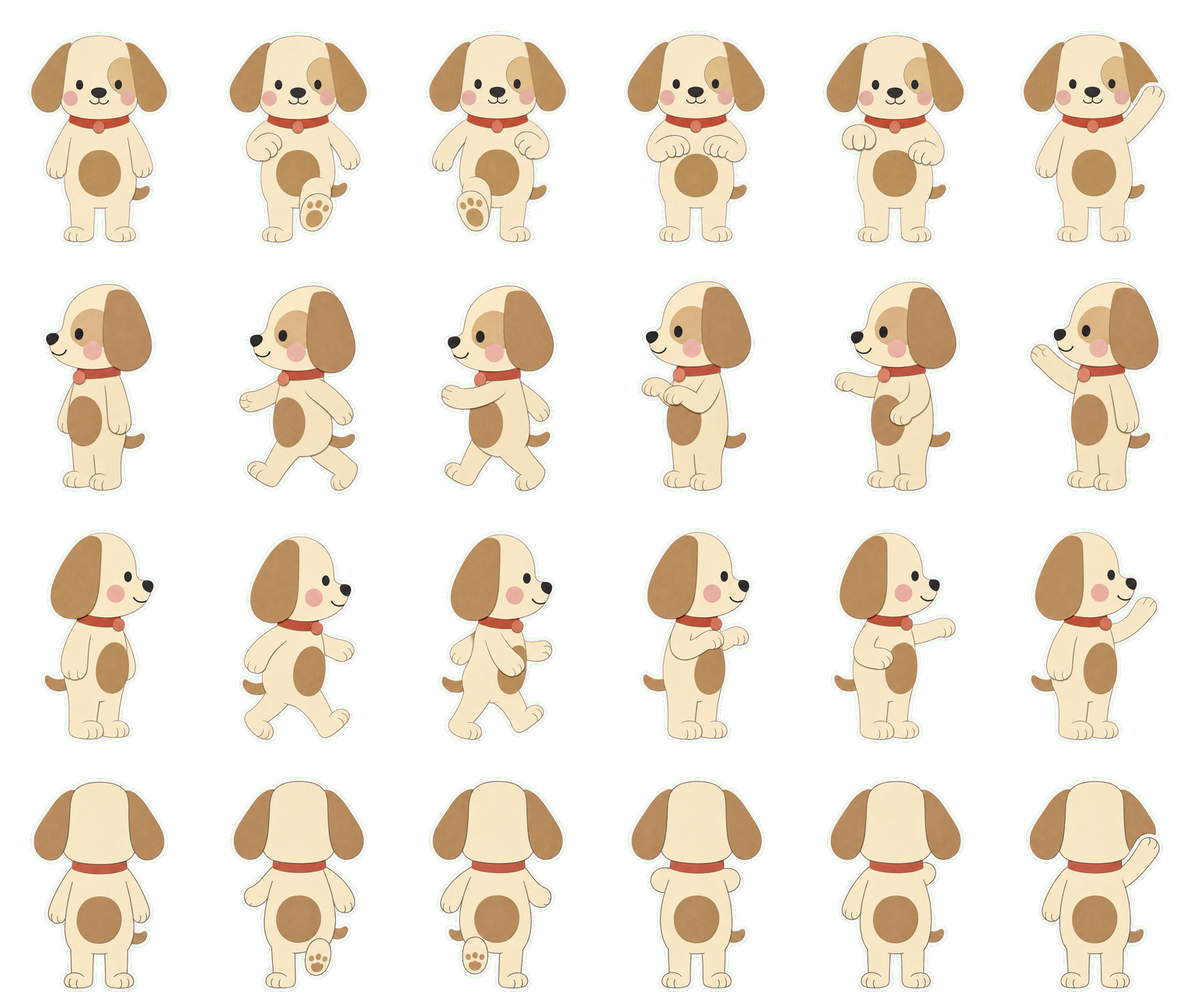
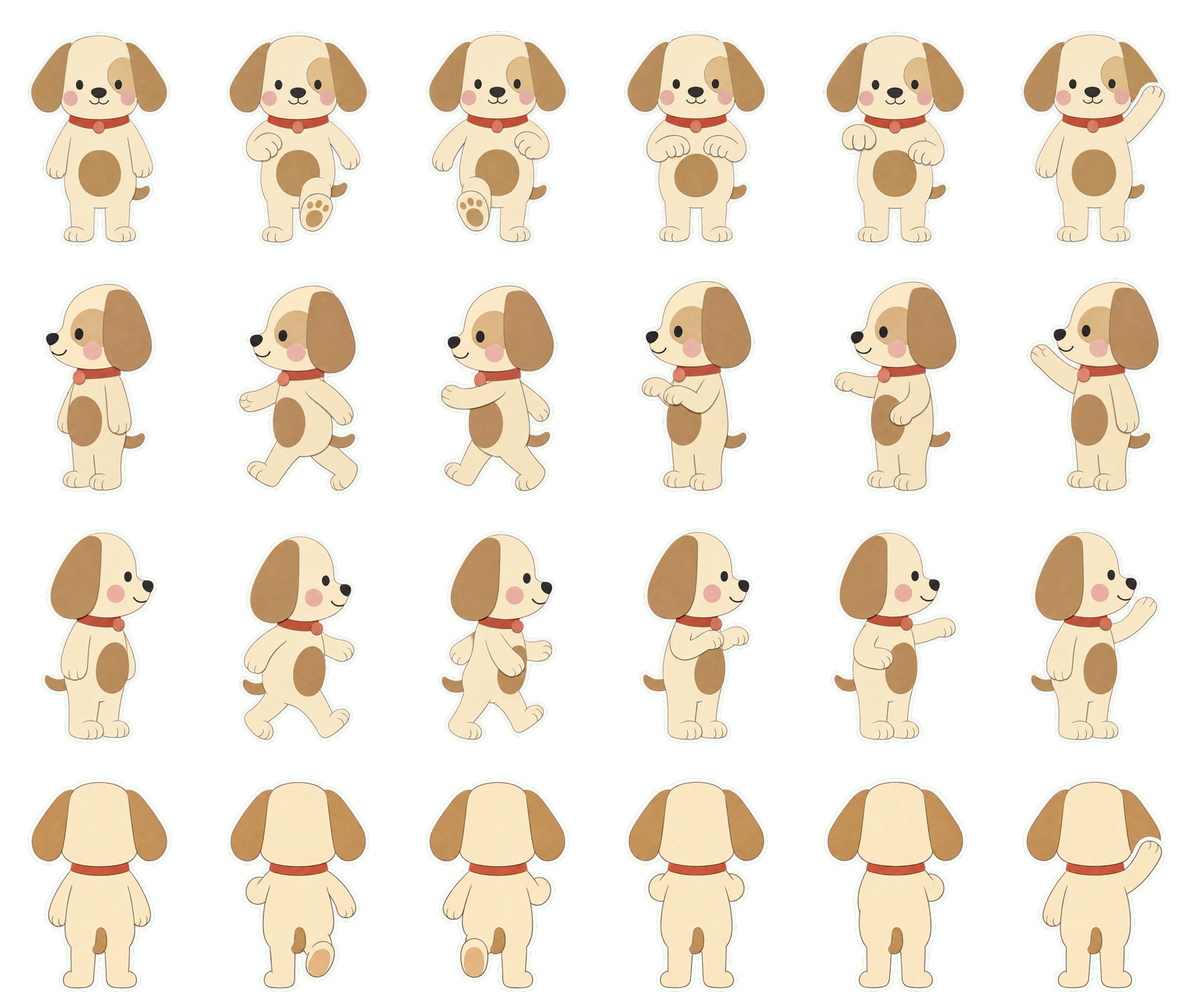
Primepaw: a turnaround settles the puppy's back, and the back strip is redrawn from it
Drawn from the body alone, every back strip invented its own back, the last
one with the tummy patch on it. So the puppy now has a character reference
first: pet/src/dog/turnaround.png, its front, left side, back and right side
in one row, drawn with GPT Image 2.6 Sunburst from the body, with the back
spelled out (plain cream, no patch, the backs of both ears and of the collar,
the tail at the bottom in the middle). The back strip is redrawn with the
turnaround as the first reference and the body as the second, and dog-walk.png
is rebuilt: only the up row changes, every facing still stands 275 px with its
feet on the cell's ground line, and the peeking atlas and the face are
byte-identical.

The character skill records the step: the turnaround is a stage of its own
between the body and the walk strips, prompts.md has its prompt as a template
and the strips' two-reference prompt, the {BACK} slot now says what is absent
as well as what is there, and comfy.md has the two-image GPT graph and what to
judge on the turnaround. pet/README.md carries the puppy's turnaround and back
strip prompts.

diff --git a/mockups/primepaw/pet/README.md b/mockups/primepaw/pet/README.md
@@ -3,15 +3,16 @@
 The pet over the composer, the main agent's face, and the standee that walks the Factory Overseer's
 floor are one character, a paper cut-out puppy: cream paper face and body, kraft brown floppy ears,
 an eye patch and a tummy patch, a red collar with a tag, pink cheeks, pen-ink features, and the white
-die-cut border every Kraft sticker has. Three cuts of it ship here, all drawn with Qwen Image 2.1 on
-Comfy Cloud (the open-weight templates, no partner credits) and sliced by `build.py`.
+die-cut border every Kraft sticker has. Three cuts of it ship here, drawn on Comfy Cloud (Qwen Image 2.1,
+the open-weight template, for the peeking sheets, the avatar and the body; GPT Image 2.6 Sunburst for
+the turnaround and the walk strips) and sliced by `build.py`.
 
 | File | What it is | Where it goes |
 | --- | --- | --- |
 | `dog.png`, `dog.json` | The peeking puppy: an atlas with a row per mood (idle, greet, celebrate, sad, error, ask) and 8 frames across, drawn at 2x; the JSON holds the frame size and the CSS numbers | Over the composer on every board that has one, as `.pet`, see the `/* pet: */` block in a board's style |
 | `dog-face.png` | The avatar: the puppy's head as one round sticker, 176px square (88 CSS px at 2x) | The Jarvis tile on the rail, the thread portraits, any row or badge that needs the main agent's face, as `.jface` |
 | `dog-walk.png`, `dog-walk.json` | The standee: the Factory Overseer's pet sheet, 6 columns by 4 facings of 256 by 320 px cells | The factory floor; see below |
-| `src/dog/` | The sheets as Comfy Cloud drew them, on chroma-key green, one per mood, the avatar, the body design and one walk strip per facing | Inputs to `build.py`; keep them so a cut can be rebuilt |
+| `src/dog/` | The sheets as Comfy Cloud drew them, on chroma-key green, one per mood, the avatar, the body design, the turnaround (the puppy from its four sides) and one walk strip per facing | Inputs to `build.py`; keep them so a cut can be rebuilt |
 
 Every file is named after the character, `dog`; a second character is the same five files and a source
 folder under another id. The `primepaw-character` skill in `.claude/skills/` walks through drawing one,
@@ -43,9 +44,11 @@ up). Column 0 stands, 1 and 2 are the two steps of a walk (it plays 0, 1, 2, 1 a
 facing the way it goes), 3 and 4 the two beats of working (5.5 a second), 5 and 0 the wave for
 attention (3.2 a second), with a little lift and roll on top. The four walk strips, `src/dog/walk-*.png`,
 were drawn with GPT Image 2.6 Sunburst rather than Qwen, which splays the legs when the puppy walks
-away and turns its head in profile; the character skill's `comfy.md` has that recipe. `dog-walk.png` is cut to that layout, the
-puppy's feet on the cell's ground line and the standing puppy 86% of the cell's height, so the host
-hands it over as
+away and turns its head in profile. The back strip was drawn from `src/dog/turnaround.png`, the puppy
+from its four sides, because with only the front to go on the model made up a back and put the tummy
+patch there; the turnaround settles it as plain cream with the tail at the bottom. The character skill's
+`comfy.md` has that recipe. `dog-walk.png` is cut to that layout, the puppy's feet on the cell's ground
+line and the standing puppy 86% of the cell's height, so the host hands it over as
 
 ```ts
 petAssets: { byAgent: { jarvis: { src: "pet/dog-walk.png", layout: "sheet", height: 2.67 } } }
@@ -73,10 +76,12 @@ Pillow and numpy.
 
 ## The prompts
 
-Every prompt went to the Qwen Image 2.1 edit graph with the previous cut as its reference image
-(`TextEncodeQwenImage21` with `images.image_1`, the wide latent switched on), 25 steps, cfg 1, euler
-simple. The base puppy came from the text-to-image template with the prompt below; everything else
-edits from it.
+The mood sheets, the avatar and the body went to the Qwen Image 2.1 edit graph with the previous cut
+as its reference image (`TextEncodeQwenImage21` with `images.image_1`, the wide latent switched on),
+25 steps, cfg 1, euler simple; the turnaround and the walk strips went to GPT Image 2.6 Sunburst with
+the body as the reference image, and the back strip with the turnaround as a first reference and the
+body as a second. The base puppy came from the text-to-image template with the prompt below; everything
+else edits from it.
 
 **The base** (1024 by 1024, the text-to-image template, seed 20261107): "Paper-craft cut-out character, the mascot of a paper diorama app: a friendly floppy-eared puppy, only its head and its two front paws showing, peeking over a straight horizontal edge as if looking over a wall, facing the viewer. Everything is made of layered flat paper cut-outs: a cream paper face (#f3e9d5), kraft brown paper floppy ears and one kraft brown patch over its left eye (#d9bc86), a terracotta red paper collar (#c8553d) with a small round tag, two round pink paper cheeks (#e8a9a2), a round ink-black nose, two small dot eyes and a little smiling mouth drawn with a dark pen (#2a2219), thin hand-drawn pen outlines on every piece of paper, and a narrow white die-cut sticker border around the whole figure. Flat colours with a faint paper grain, no gradients, not 3D, not a photo, no drop shadow. The figure is cut off flat along the straight edge where its paws hook over it, and nothing at all is drawn below that edge. Large and centred, isolated on a solid flat bright green chroma-key background (#00FF00). No text, no letters, no logo, no other objects."
 
@@ -126,8 +131,50 @@ paper cut-out with a clean white die-cut border all around it, centred, filling 
 picture, on a solid flat bright green (#00FF00) background. No text, no shadow, nothing else in the
 picture."
 
-**The walk strips** (2048 by 512, one per facing, from the body): "...draw a stop-motion sprite strip:
-one row of 6 cells of equal size, on a solid flat bright green (#00FF00) background, with no grid
+**The turnaround** (1536 by 1024, GPT Image 2.6, from the body): "A character turnaround sheet (model
+sheet) of the paper cut-out friendly floppy-eared puppy from the reference image, exactly as it is: the
+same cream paper face with the kraft brown patch over its left eye, two small dot eyes, a round black
+nose and a little smile, pink cheeks, kraft brown floppy ears, the red collar with its round tag, a short
+round cream body with a kraft brown oval patch on its tummy, short legs with little round feet, a short
+tail, pen-ink outlines, flat paper colours with a faint grain, and a white die-cut sticker border around
+each figure. The puppy stands upright in the same neutral pose in every view, both paws relaxed at its
+sides, both feet planted, the same size and proportions, feet on one ground line. Four views in one
+row, left to right, with a wide green gap between them: 1. from the front, facing the viewer, exactly
+like the reference; 2. from its left side in strict profile, its snout pointing to the left edge of the
+picture, one eye, one ear, the tummy patch showing as a sliver at its front, its tail at the right;
+3. from directly behind, facing away from the viewer: the back of its head with no face, the backs of
+both floppy ears hanging at the sides, the back of the red collar, a plain cream back with no patch at
+all, its short tail at the bottom in the middle, its two paws at its sides and the backs of its feet;
+4. from its right side in strict profile, its snout pointing to the right edge of the picture, its tail
+at the left. All on a solid flat bright green (#00FF00) background, with no ground line drawn, no grid
+lines, no borders, no labels and no text. Flat paper, no shadows, no gradients, not 3D."
+
+**The back strip** (1536 by 1024, GPT Image 2.6, the turnaround first and the body second): "The first
+reference image is a character turnaround of a paper cut-out friendly floppy-eared puppy: its front,
+its left side, its back and its right side. The second reference image is the same puppy from the
+front. Draw the puppy exactly as the turnaround's third figure shows it from behind: the back of its
+head with no face at all, the backs of both kraft brown floppy ears hanging at the sides of the head,
+the back of the red collar, a plain cream paper back with no patch, its short tail at the bottom in the
+middle, its two paws at its sides and the backs of its little feet, pen-ink outlines, flat paper colours
+with a faint grain, and the white die-cut sticker border. Draw it as a stop-motion sprite sheet: a grid
+of 3 columns and 2 rows, 6 cells of equal size, on a solid flat bright green (#00FF00) background, with
+no grid lines, no borders, no labels and no text. The 6 cells read left to right along the top row and
+then along the bottom row. In every cell the puppy is the same size as in the turnaround, seen from
+directly behind, facing straight away from the viewer, its body upright and square to the viewer in
+every cell, never turning, with its feet standing on the same ground line. The 6 cells: 1. standing
+still with both paws relaxed at its sides, both feet planted, exactly like the turnaround's back view;
+2. mid-step walking away from us: the left leg planted straight down under the body and the right leg
+bent back and lifted so we see the sole of its raised right foot, the legs staying under the body and
+never spreading sideways, the arms swinging; 3. the other step: the right leg planted straight down and
+the left leg bent back and lifted showing its sole, the arms swinging the other way; 4. working, both
+paws raised up in front of its chest, so from behind only its elbows show at its sides; 5. working, one
+paw pushed forward out of sight in front of it; 6. waving hello with one paw raised high above its
+head, seen from behind. Flat paper, no shadows, no gradients, like a paper puppet moved between
+photographs."
+
+**The other walk strips** (one per facing, from the body; GPT Image drew them as a grid of 3 columns and
+2 rows at 1536 by 1024, the Qwen runs before them as one row of 6 cells at 2048 by 512): "...draw a
+stop-motion sprite strip: one row of 6 cells of equal size, on a solid flat bright green (#00FF00) background, with no grid
 lines, no borders, no labels and no text. In every cell the puppy is the same size, seen [straight from
 the front, facing the viewer | from the side in profile, turned to face the left edge of the picture,
 so we see one eye, one ear, its snout pointing left and its tail at the right | ...the right edge... |

diff --git a/mockups/primepaw/.claude/skills/primepaw-character/references/prompts.md b/mockups/primepaw/.claude/skills/primepaw-character/references/prompts.md
@@ -15,8 +15,8 @@ prompt opens with the recap so the model keeps the character it is shown.
 | `{RECAP}` | the same pieces in a short list, for the edits | the same cream paper face, kraft brown floppy ears and eye patch, red collar with its tag, pink cheeks, pen-ink features, the white die-cut sticker border |
 | `{HEAD}` | what the avatar shows: the head and whatever sits at the neck | the puppy's head with its ears and the top of its red collar |
 | `{BODY}` | the standing figure, head to toe | a short round cream paper body, a kraft brown paper patch on its tummy, its two front paws hanging relaxed at its sides, two short legs with little round feet planted on the ground, the tip of its tail showing at one side, the same red collar around its neck and the same friendly smiling face |
-| `{SIDE}` | what a profile view shows | one eye, one ear, its snout pointing left and its tail at the right |
-| `{BACK}` | what the view from behind shows | the back of its head with both floppy ears, the back of its collar, its back and its tail, and no face at all |
+| `{SIDE}` | what a profile view shows | one eye, one ear, the tummy patch showing as a sliver at its front, its snout pointing left and its tail at the right |
+| `{BACK}` | what the view from behind shows, absences included: the front never shows the back, so the model makes one up unless this slot settles it | the back of its head with no face, the backs of both floppy ears hanging at the sides, the back of the red collar, a plain cream back with no patch at all, its short tail at the bottom in the middle, its two paws at its sides and the backs of its feet |
 | `{PAWS}` | the word for its front limbs | paws |
 | `{EARS}` | the part that bounces, droops or perks (ears, antennae, feathers, a hat) | ears |
 
@@ -58,16 +58,34 @@ rest, feet on the ground, because the strips copy it.
 
 > Using the paper cut-out {CREATURE} from the reference image exactly as it is ({RECAP}), draw the whole character from head to toe: it stands upright on its two hind legs like a little mascot, seen straight from the front, with {BODY}. One flat paper cut-out with a clean white die-cut border all around it, centred, filling the height of the picture, on a solid flat bright green (#00FF00) background. No text, no shadow, nothing else in the picture.
 
-## The walk strips (edits of the body, 2048 by 512, one per facing)
+## The turnaround (edit of the body, 1536 by 1024, GPT Image 2.6)
+
+The character from its four sides in one row: front, left side, back, right side. Like the body it
+never ships; it is what the walk strips copy, and it is where the sides the front never shows get
+settled. Drawn from the body alone, every strip invents its own back (the puppy's came back wearing
+the tummy patch), so draw the turnaround before any strip and judge it against the slots.
+
+> A character turnaround sheet (model sheet) of the paper cut-out {CREATURE} from the reference image, exactly as it is: {RECAP}, {BODY}, pen-ink outlines, flat paper colours with a faint grain, and a white die-cut sticker border around each figure. The character stands upright in the same neutral pose in every view, both {PAWS} relaxed at its sides, both feet planted, the same size and proportions, feet on one ground line. Four views in one row, left to right, with a wide green gap between them: 1. from the front, facing the viewer, exactly like the reference; 2. from its left side in strict profile, facing the left edge of the picture, so we see {SIDE}; 3. from directly behind, facing away from the viewer, so we see {BACK}; 4. from its right side in strict profile, facing the right edge of the picture, so we see {SIDE} mirrored, its tail at the left. All on a solid flat bright green (#00FF00) background, with no ground line drawn, no grid lines, no borders, no labels and no text. Flat paper, no shadows, no gradients, not 3D.
+
+## The walk strips (edits of the turnaround and the body, 1536 by 1024, one per facing)
 
 The Factory Overseer reads the sheet by column, so the six cells have to hold these six poses in this
-order, in every facing. The facing clause is the only thing that changes between the four strips.
+order, in every facing. GPT Image 2.6 draws each strip from two reference images, the turnaround first
+and the body second (`comfy.md` has the graph), as a grid of 3 columns and 2 rows; `build.py` reads the
+six cells in reading order. The figure the prompt points at on the turnaround and the facing clause are
+the only things that change between the four strips.
 
-> Using the paper cut-out {CREATURE} from the reference image exactly as it is ({RECAP}, the same standing pose), draw a stop-motion sprite strip: one row of 6 cells of equal size, on a solid flat bright green (#00FF00) background, with no grid lines, no borders, no labels and no text. In every cell the character is the same size, seen {FACING}, with its feet standing on the same ground line. The 6 cells, from left to right: 1. standing still with both {PAWS} relaxed at its sides; 2. mid-step walking, its left leg forward and right leg back, arms swinging; 3. mid-step walking, its right leg forward and left leg back, arms swinging the other way; 4. working, both {PAWS} raised up in front of its chest as if typing on a keyboard; 5. working, one {PAW} pushed forward as if pressing a button; 6. waving hello with one {PAW} raised high above its head. Like a paper puppet moved between photographs.
+> The first reference image is a character turnaround of the paper cut-out {CREATURE}: its front, its left side, its back and its right side. The second reference image is the same character from the front. Draw the character exactly as the turnaround's {VIEW} shows it ({RECAP}), as a stop-motion sprite sheet: a grid of 3 columns and 2 rows, 6 cells of equal size, on a solid flat bright green (#00FF00) background, with no grid lines, no borders, no labels and no text. The 6 cells read left to right along the top row and then along the bottom row. In every cell the character is the same size as in the turnaround, seen {FACING}, with its feet standing on the same ground line. The 6 cells: 1. standing still with both {PAWS} relaxed at its sides, both feet planted, exactly like the turnaround's {VIEW}; 2. mid-step walking, its left leg planted straight down under the body and its right leg bent and lifted so the sole of its right foot shows, the legs staying under the body and never spreading sideways, the arms swinging; 3. the other step, its right leg planted and its left leg bent and lifted showing its sole, the arms swinging the other way; 4. working, both {PAWS} raised up in front of its chest as if typing on a keyboard; 5. working, one {PAW} pushed forward as if pressing a button; 6. waving hello with one {PAW} raised high above its head. Flat paper, no shadows, no gradients, like a paper puppet moved between photographs.
 
-`{FACING}`, per strip:
+`{VIEW}` and `{FACING}`, per strip:
 
-- `walk-down`: "straight from the front, facing the viewer, its body square to the viewer in every cell; when it walks one leg lifts so its sole shows, the legs staying under its body"
-- `walk-left`: "from the side in strict profile, turned to face the left edge of the picture, so we see {SIDE}; its head stays in that profile in every cell, never turning toward the viewer, so only one eye ever shows"
-- `walk-right`: "from the side in strict profile, turned to face the right edge of the picture, so we see {SIDE} mirrored, its snout pointing right and its tail at the left; its head stays in that profile in every cell, never turning toward the viewer, so only one eye ever shows"
-- `walk-up`: "from directly behind, facing straight away from the viewer, so we see {BACK}; its body stays square to the viewer, never turning, and when it walks its legs stay under its body, one foot lifted so its sole shows, never spread sideways"
+- `walk-down`: "first figure, the front"; "straight from the front, facing the viewer, its body upright and square to the viewer in every cell, never turning"
+- `walk-left`: "second figure, the left side"; "from the side in strict profile, turned to face the left edge of the picture, so we see {SIDE}; its head stays in that profile in every cell, never turning toward the viewer, so only one eye ever shows"
+- `walk-right`: "fourth figure, the right side"; "from the side in strict profile, turned to face the right edge of the picture, so we see {SIDE} mirrored, its tail at the left; its head stays in that profile in every cell, never turning toward the viewer, so only one eye ever shows"
+- `walk-up`: "third figure, the back"; "from directly behind, facing straight away from the viewer, so we see {BACK}; its body stays upright and square to the viewer, never turning; in cell 4 only its elbows show at its sides, and in cell 5 the pushed {PAW} is out of sight in front of it"
+
+Without GPT credits, Qwen draws a strip from the body alone, at 2048 by 512 as one row of 6 cells: open
+with the body prompt's recap ("Using the paper cut-out {CREATURE} from the reference image exactly as it
+is ({RECAP}, the same standing pose), draw a stop-motion sprite strip: one row of 6 cells of equal size,
+…"), then the same six cells and facing clause. Expect to redraw the back, and to check the profiles
+for a second eye.

diff --git a/mockups/primepaw/.claude/skills/primepaw-character/references/comfy.md b/mockups/primepaw/.claude/skills/primepaw-character/references/comfy.md
@@ -2,7 +2,7 @@
 
 The puppy was drawn with Qwen Image 2.1, an open-weight model that runs on Comfy Cloud's own
 credits rather than a partner's. Everything after the base is an *edit* of the base: the model sees the
-previous cut as a reference image and keeps the character's identity, which is what makes eleven
+previous cut as a reference image and keeps the character's identity, which is what makes thirteen
 separate sheets look like one creature. Use the `comfy-cloud` plugin's tools; the names below are its
 tool names.
 
@@ -47,7 +47,7 @@ that names the sheet:
 
 | Placeholder | Value |
 | --- | --- |
-| `__REFERENCE__` | the reference's filename from `use_previous_output`: the base for the moods, the avatar and the body; the body for the walk strips |
+| `__REFERENCE__` | the reference's filename from `use_previous_output`: the base for the moods, the avatar and the body; the body for a walk strip drawn with Qwen |
 | `__PROMPT__` | the sheet's prompt from `prompts.md` |
 | `__WIDTH__`, `__HEIGHT__` | mood sheets 2048 by 1024; avatar 1024 by 1024; body 1024 by 1536; walk strips 2048 by 512 |
 | `__SEED__` | any integer; a different seed per sheet, and a new one when a sheet needs redrawing |
@@ -57,34 +57,49 @@ The width and height are numbers in the JSON, not strings: replace the quoted pl
 Keep the sampler as it is (25 steps, cfg 1, euler, simple): cfg 1 is what Qwen Image 2.1 wants, and
 raising it makes the colours bleed. `resolution: 0` on the text encoder lets the reference in at its own size.
 
-Two stages, because the walk strips need the body:
+Three stages, because the turnaround needs the body and the walk strips need both:
 
 1. **From the base:** the six mood sheets, the avatar and the body, eight items in one batch.
-2. **From the body:** the four walk strips (down, left, right, up), four items in one batch, or, better,
-   the GPT Image route below.
+2. **From the body:** the turnaround, one GPT Image run (below), judged against the slots before
+   anything is drawn from it.
+3. **From the turnaround and the body:** the four walk strips (down, left, right, up), four items in one
+   batch, GPT Image again. Qwen can draw a strip from the body alone (2048 by 512, one row of 6 cells),
+   but read on before spending the seeds.
 
 The walk strips are where Qwen falls short: seen from behind it splays the walking legs out sideways,
-however the prompt words it, and in profile it turns the head toward the viewer. The puppy's four strips
-were redrawn with GPT Image 2.6 Sunburst, a paid partner model, which drew every one right on its first
-seed, so draw the strips with it when the credits are there and keep Qwen for the moods, the avatar and
-the body. The graph is `LoadImage` (the body) → `OpenAIGPTImageNodeV2` (`model` `gpt-image-2.6-sunburst`,
-`model.size` `1536x1024`, `model.quality` `high`, the body on `model.images.image_1`) →
-`SaveImageAdvanced`, sent with `submit_workflow`, because the batch tool's bundled catalog can lag the
-live one and refuse the template by name. Ask for a grid of 3 columns and 2 rows at that size (the model
-draws 3:2, not a 4:1 strip, and `build.py` reads the six cells in reading order either way) and spell the
-walk out: legs under the body, one foot lifted so its sole shows, never spread sideways. It costs 5 to
-29 credits an image and the spend is gated, so ask the user before submitting. It returns a transparent
-PNG rather than a green sheet, the figure at alpha 250 to 254 with a faint halo below 30: composite it
-onto `#00FF00` with the alpha remapped (0 below 24, opaque from 250) before saving it as the source, so
-the slicer keys it like the others.
+however the prompt words it, and in profile it turns the head toward the viewer. And any model invents
+the sides it has not been shown: drawn from the body alone, the puppy's back came back from GPT Image
+wearing the tummy patch, right walk and all. So the strips are drawn with GPT Image 2.6 Sunburst, a paid
+partner model, from a turnaround drawn first, and Qwen keeps the moods, the avatar and the body.
+
+The graph is `LoadImage` → `OpenAIGPTImageNodeV2` (`model` `gpt-image-2.6-sunburst`, `model.size`
+`1536x1024`, `model.quality` `high`, a reference on `model.images.image_1` and a second one on
+`image_2`) → `SaveImageAdvanced`, sent with `submit_workflow`, because the batch tool's bundled catalog
+can lag the live one and refuse the template by name. A file from disk reaches `LoadImage` through
+`upload_file`: run the curl it prints and give `LoadImage` the name it answers with. Two seeds per sheet,
+as two items of one batch, is the cheap way to have a choice.
+
+- **The turnaround:** the body on `image_1`, the turnaround prompt from `prompts.md`. Judge it like the
+  base: four figures of one height on one ground line, the back with no face and with every absence
+  the `{BACK}` slot names (the puppy's plain back, no patch), the profiles with one eye, the same
+  colours in every view. Save it as `pet/src/<id>/turnaround.png`; it never ships, but every strip copies it.
+- **Each strip:** the turnaround on `image_1`, the body on `image_2`, the strip prompt, which points at
+  the turnaround's figure for that facing. Ask for a grid of 3 columns and 2 rows at that size (the model
+  draws 3:2, not a 4:1 strip, and `build.py` reads the six cells in reading order either way) and spell
+  the walk out: legs under the body, one foot lifted so its sole shows, never spread sideways.
+
+It costs 5 to 29 credits an image and the spend is gated, so ask the user before submitting. It returns
+either a green sheet or a transparent PNG, the figure at alpha 250 to 254 with a faint halo below 30:
+composite the transparent kind onto `#00FF00` with the alpha remapped (0 below 24, opaque from 250)
+before saving it as the source, so the slicer keys it like the others.
 
 Before the first batch, `estimate_credits` with `template_name: image_qwen_image_2_1_image_edit` says
-what one edit costs; tell the user the total for twelve before spending it.
+what one edit costs; tell the user the total for the eight edits before spending it.
 
 Wait with `get_batch_status` or `wait_for_batch`, then `get_batch_output` with `client_os`: it downloads
 every image and reports where each landed. Copy them into `pet/src/<id>/` under the names `build.py`
 expects: `idle.png`, `greet.png`, `celebrate.png`, `sad.png`, `error.png`, `ask.png`, `avatar.png`,
-`body.png`, `walk-down.png`, `walk-left.png`, `walk-right.png`, `walk-up.png`.
+`body.png`, `turnaround.png`, `walk-down.png`, `walk-left.png`, `walk-right.png`, `walk-up.png`.
 
 ## 3. Judging a sheet
 
@@ -101,7 +116,8 @@ with a new seed when:
 
 Judge the walk strips as a set: `build.py` scales each facing to the same standing height, so a strip
 drawn a little smaller is fine, but one drawn much smaller comes out soft. The figure must stay upright
-and square to the viewer in every cell; the back view is the one Qwen gets wrong, twisting the body
-or splaying the legs, so look at its walking cells closely and reach for GPT Image (above) if a second
-seed does not fix it. The avatar must be one round sticker filling the frame, and the body a full figure
-with its feet on the ground and nothing cropped.
+and square to the viewer in every cell; the back view is the one that goes wrong, Qwen twisting the
+body or splaying the legs and any model making up a back it was never shown, so draw the turnaround
+first (above), check each strip against its figure there, and look at the back's walking cells closely.
+The avatar must be one round sticker filling the frame, and the body a full figure with its feet on the
+ground and nothing cropped.

diff --git a/mockups/primepaw/.claude/skills/primepaw-character/SKILL.md b/mockups/primepaw/.claude/skills/primepaw-character/SKILL.md
@@ -14,7 +14,7 @@ all read those cuts by name, so a new character is a new set of files under `pet
 | The peeking sprite | `pet/<id>.png`, an atlas with a row per mood (idle, greet, celebrate, sad, error, ask) and 8 frames across, drawn at 2x; `pet/<id>.json` with the frame size | Over the composer on every board that has one, as `.pet`, stepped like paper stop-motion |
 | The face sticker | `pet/<id>-face.png`, the head as one round sticker, 176 px square | The Jarvis tile on the rail, the thread portraits, the picker, as `.jface` |
 | The standee | `pet/<id>-walk.png`, the Factory Overseer's pet sheet (6 columns by 4 facings of 256 by 320 cells); `pet/<id>-walk.json` with the factory contract | The factory floor, and the Pet board's mock of it |
-| The sources | `pet/src/<id>/`: the six mood sheets, `avatar.png`, `body.png` and four `walk-*.png`, all on chroma-key green, plus `base.png`, the drawing the edits started from | Inputs to `build.py`; kept so any cut can be re-sliced or redrawn from the same base (the puppy's base was not kept, so its sheets stand in for it) |
+| The sources | `pet/src/<id>/`: the six mood sheets, `avatar.png`, `body.png`, `turnaround.png` (the character from its four sides, which the walk strips copy) and four `walk-*.png`, all on chroma-key green, plus `base.png`, the drawing the edits started from | Inputs to `build.py`; kept so any cut can be re-sliced or redrawn from the same base (the puppy's base was not kept, so its sheets stand in for it) |
 
 Read `pet/README.md` once: it is the puppy's own account of the same system, and `DioramaPet.dc.html`
 shows the three cuts side by side with every mood and the standee walking.
@@ -38,19 +38,22 @@ antennae, a hat). Design for 92 CSS px over the composer and 44 px on the rail: 
 Pick an `<id>` (one lowercase word, used in every filename and CSS url) and a picker name (what the
 Setup form shows: "A paper puppy", "A paper owl"). Then write the brief as the slot values in
 `references/prompts.md`: the creature, its paper pieces with their colours, the head, the body, the
-side and back views, the words for its limbs and its ears. Writing the slots first keeps the twelve
+side and back views (the back spelled out, absences included, since nothing else shows the model what
+is there), the words for its limbs and its ears. Writing the slots first keeps the thirteen
 sheets describing the same creature; drifting prompts are the usual reason a character falls apart.
 Show the user the slots before spending credits if the request left any of them open.
 
 ### 2. Draw it on Comfy Cloud
 
-Follow `references/comfy.md`. In short: one text-to-image run for the base, judged hard; then every
-other sheet is an edit of the base (the six moods, the avatar, the body) or of the body (the four walk
-strips), submitted as batches of the graph in `assets/qwen21-edit.workflow.json`; the walk strips come
-out right with GPT Image 2.6 where Qwen twists them, and `comfy.md` has that route too. The prompts come from
-`references/prompts.md`, slots filled. Save every downloaded sheet under `pet/src/<id>/` with the names
-`build.py` expects, and look at each one before building: the judging list in `comfy.md` says what
-sends a sheet back for a new seed.
+Follow `references/comfy.md`. In short: one text-to-image run for the base, judged hard; then the six
+moods, the avatar and the body as edits of the base, submitted as one batch of the graph in
+`assets/qwen21-edit.workflow.json`; then a turnaround of the body (front, left side, back, right side in
+one row) with GPT Image 2.6, judged against the slots before anything is drawn from it, because a model
+invents whatever the body does not show it and the turnaround is where the back and the sides get
+settled; then the four walk strips from the turnaround and the body, GPT Image again, since Qwen twists
+them. The prompts come from `references/prompts.md`, slots filled. Save every downloaded sheet under
+`pet/src/<id>/` with the names `build.py` expects, and look at each one before building: the judging
+list in `comfy.md` says what sends a sheet back for a new seed.
 
 ### 3. Build the cuts
 
@@ -103,7 +106,7 @@ entry, not a code change.
 ### 6. Done when
 
 - `pet/<id>.png`, `.json`, `-face.png`, `-walk.png`, `-walk.json` exist and `pet/src/<id>/` holds the
-  twelve sources and the base, so the character can be redrawn.
+  thirteen sources (the turnaround among them) and the base, so the character can be redrawn.
 - The Pet board pair plays all six moods, shows the face and walks the standee in four facings.
 - The picker lists it; if it was meant to be worn, the shell, a Home board and a page board show it
   over the composer and on the rail tile in the browser, light and dark.
